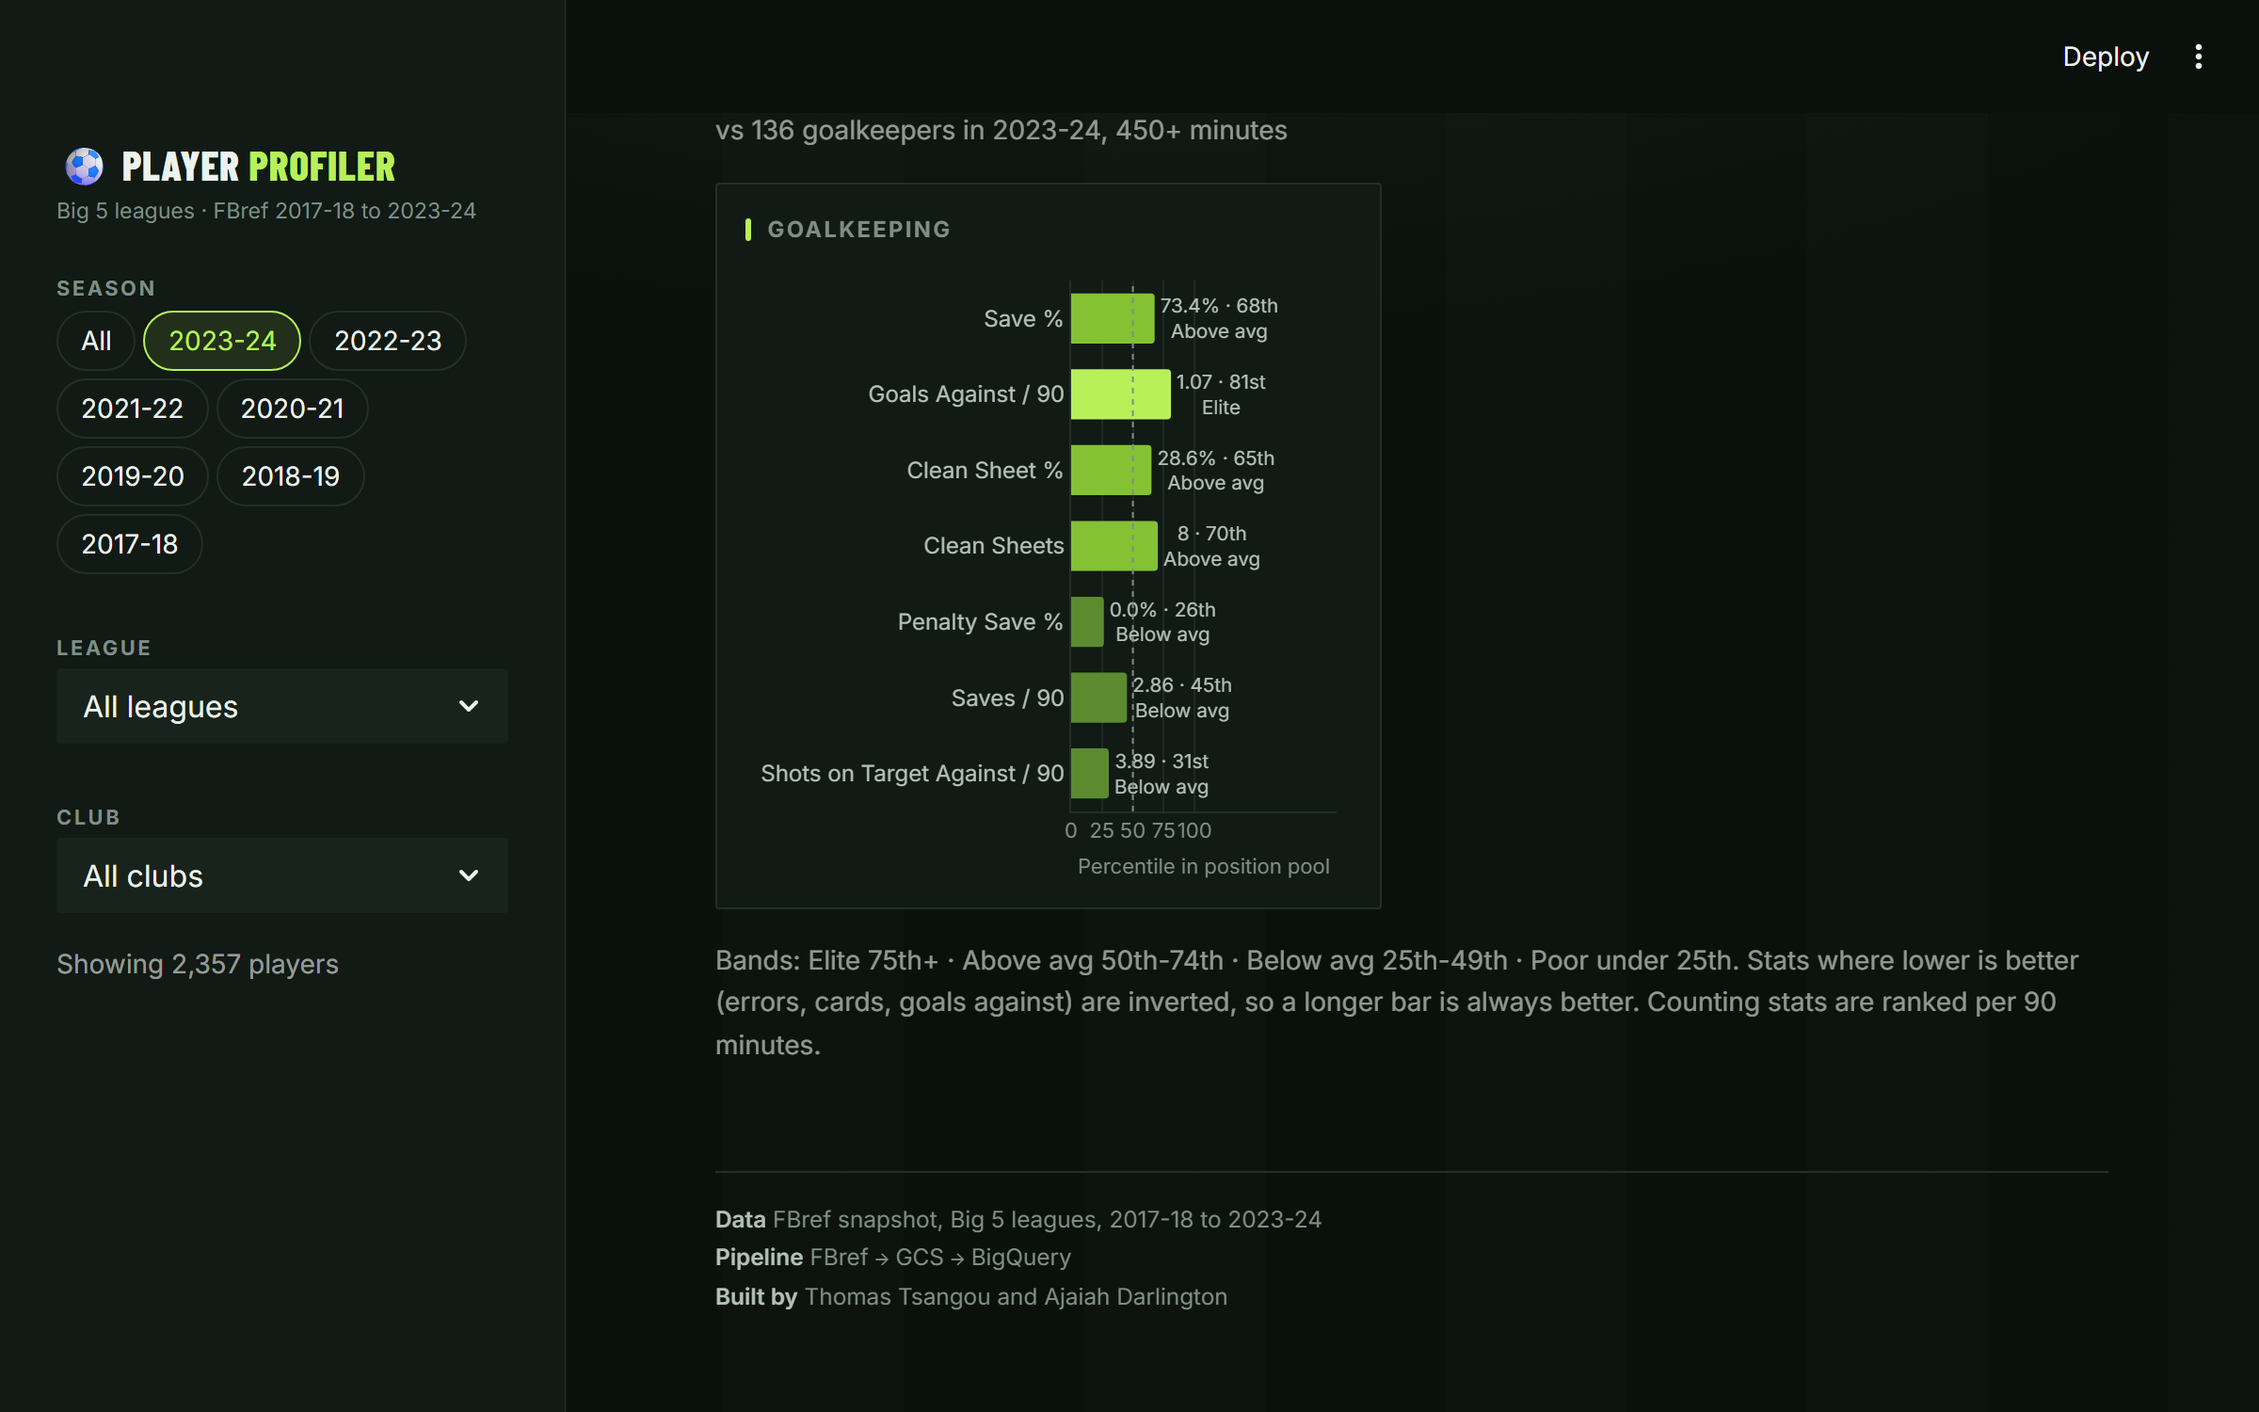
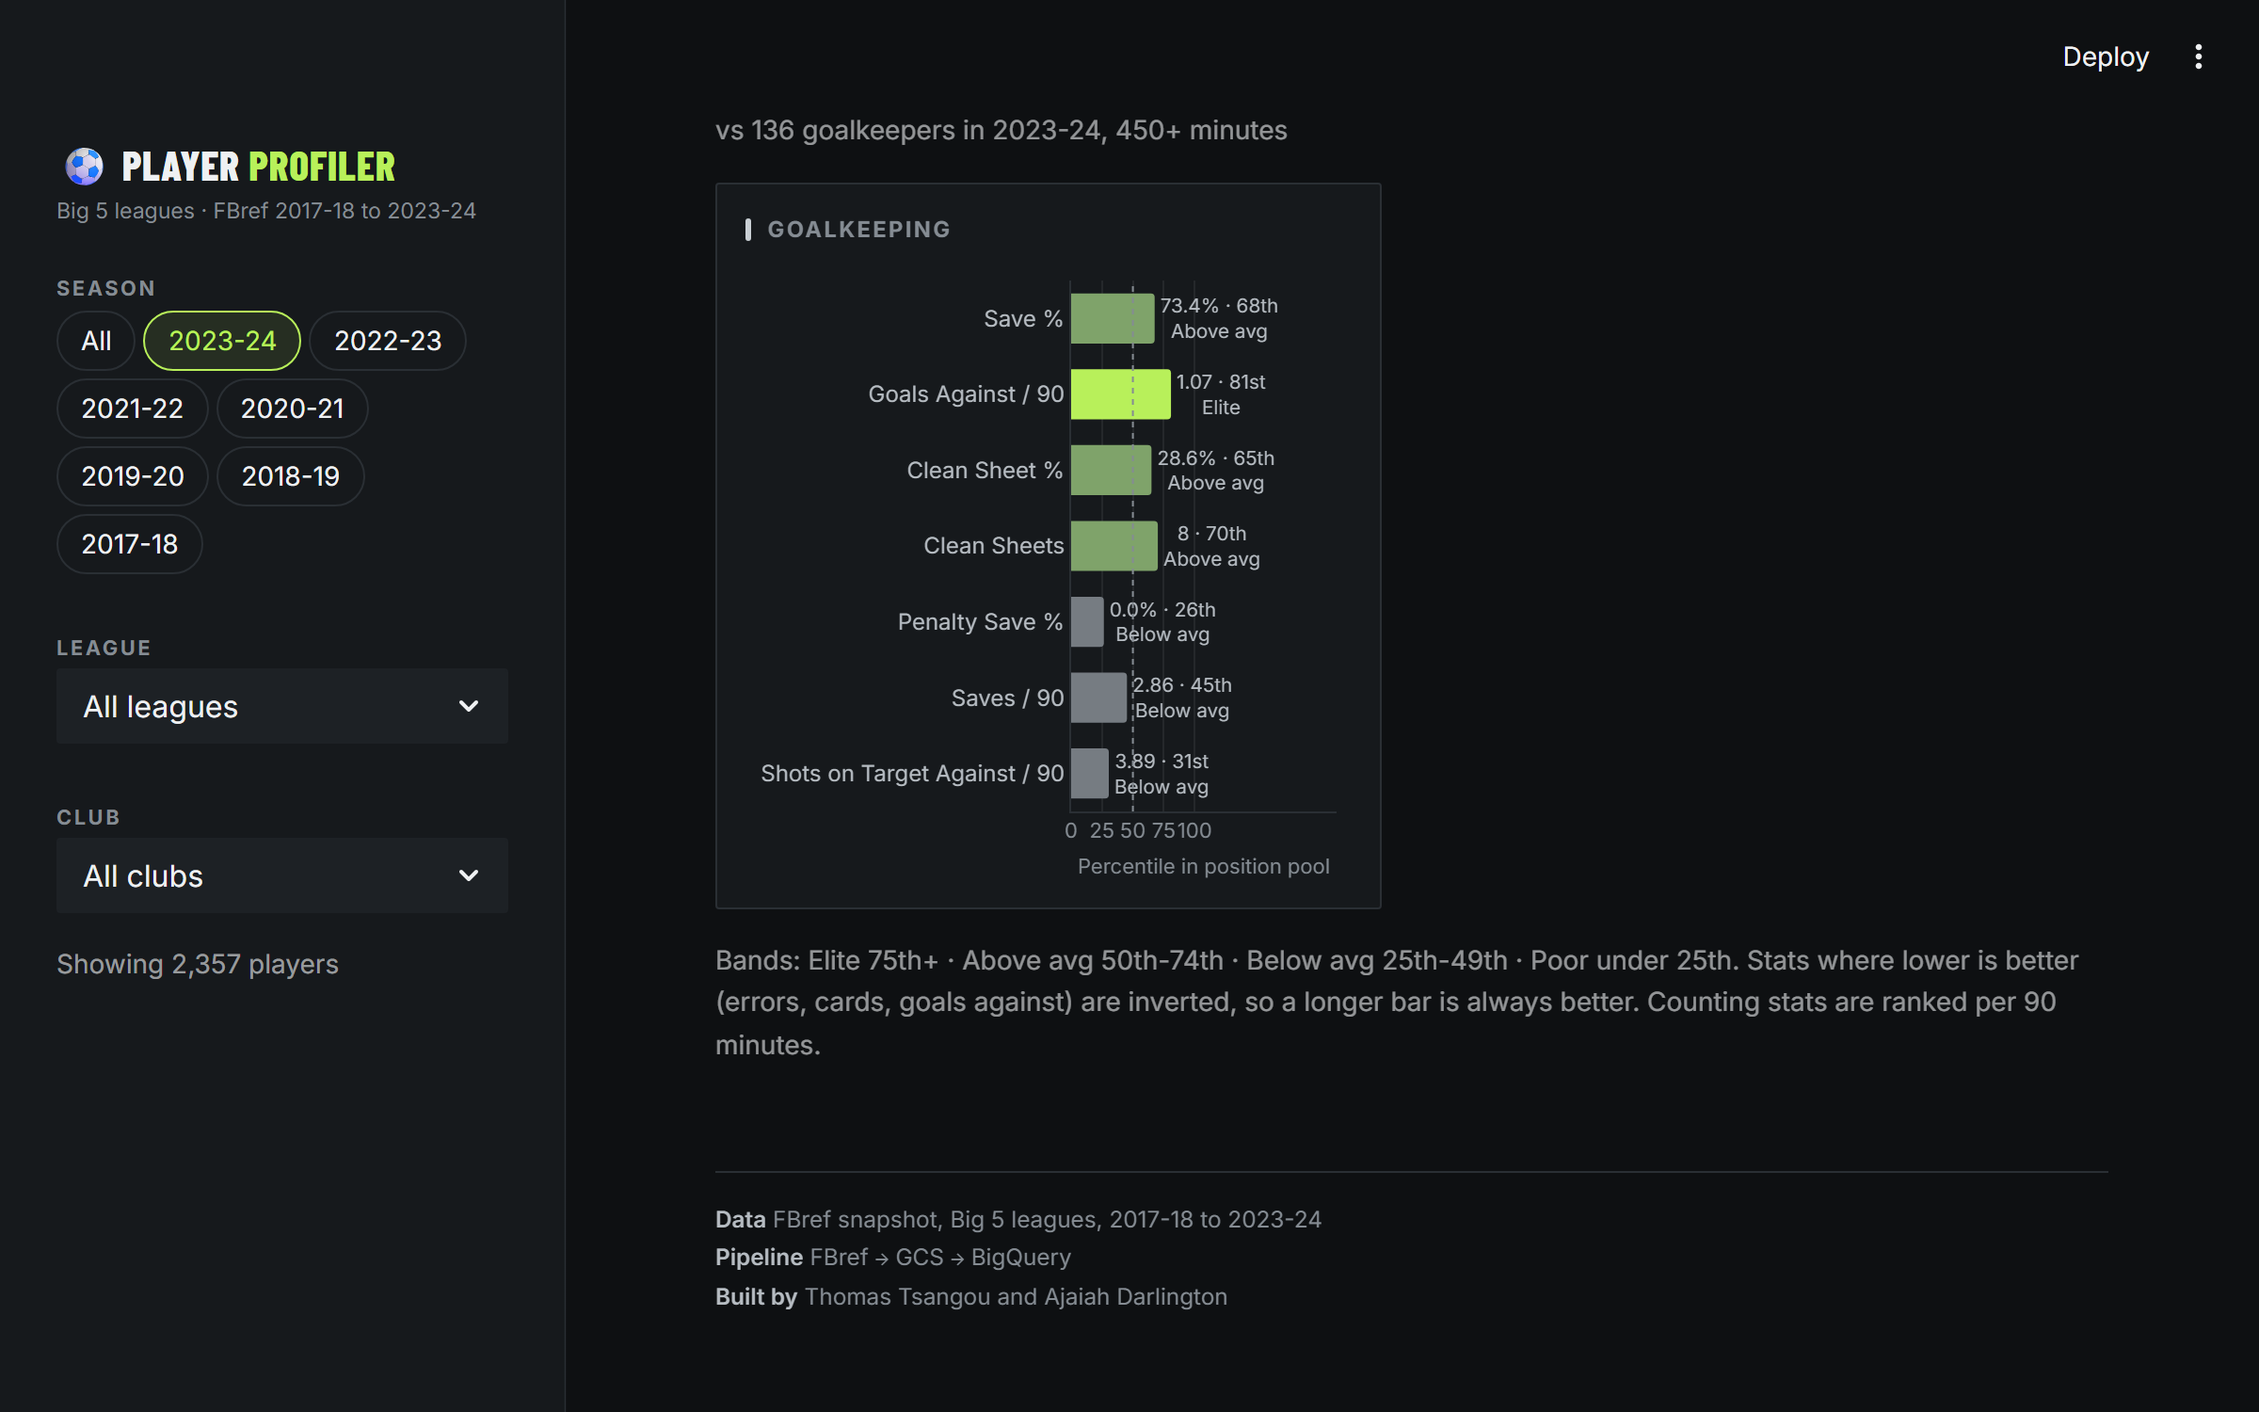
ui: charcoal palette with a single lime accent, neutral-until-good percentile bars
Page, surfaces and ink move to neutral charcoal. Lime stays only on selected
states (primaryColor), the PROFILER title words and the Elite band; structure
(tile borders, section bars, hero rule, avatar ring, position chip, similarity
bars) uses the new chalk RULE token. Percentile bands run grey, grey, sage, lime.
Tests pin the new tokens and that ACCENT is not used on structural chrome.

Changed region(s): [[0.4688, 0.3067, 0.5312, 0.5827], [0.4688, 0.184, 0.5312, 0.2453]]

diff --git a/src/ui/theme.py b/src/ui/theme.py
@@ -1,10 +1,11 @@
-"""Floodlight design tokens, global CSS and small HTML helpers.
+"""Charcoal design tokens, global CSS and small HTML helpers.
 
 Ported from the Basketball Intelligence Platform (dashboard/lib/theme.py:
 kpi(), card(), chip(), tip(); lib/media.py: avatar initials) and restyled
-as a night match: deep pitch greens, chalk-white type, floodlight-lime
-accent. .streamlit/config.toml mirrors the tokens for native widgets
-(tests/test_theme.py keeps the two in sync).
+as a neutral charcoal page with chalk-grey structure and ONE interface
+accent, lime: selected states (Streamlit's primaryColor), the title word
+and the Elite percentile band. .streamlit/config.toml mirrors the tokens
+for native widgets (tests/test_theme.py keeps the two in sync).
 
 Every helper returns ONE line of HTML: st.markdown treats a blank or
 indented line inside raw HTML as Markdown and breaks the block. No CSS
@@ -20,18 +21,27 @@ from typing import Iterable, Sequence
 
 from src.ui import stats
 
-PAGE = "#0a110d"        # app background
-SURFACE = "#111a15"     # cards, chart surface, sidebar
-SURFACE_2 = "#17231c"   # hover, table header, inputs
-BORDER = "#213028"      # card and table borders
-INK = "#ecf2ed"         # primary text
-INK_2 = "#b3c1b8"       # secondary text
-MUTED = "#7f8f86"       # labels, captions
-GRID = "rgba(236,242,237,0.07)"  # chart gridlines
-ACCENT = "#b8f05a"      # brand accent: primaryColor, title bars, active states, hero highlight
-PLAYER = "#5aa82c"      # selected player series in charts
-COMPARE = "#7c7cf2"     # comparison player series in charts
-PCT_RAMP = ("#3d5a26", "#5c8a2e", "#84c234", "#b8f05a")  # bands <25, 25-49, 50-74, 75+
+PAGE = "#0e1012"        # app background, neutral charcoal
+SURFACE = "#16191c"     # cards, chart surface, sidebar
+SURFACE_2 = "#1d2125"   # hover, table header, inputs, chip fill
+BORDER = "#2a2f34"      # card and table borders
+INK = "#eef0f2"         # primary text
+INK_2 = "#b6bcc2"       # secondary text
+MUTED = "#858c93"       # labels, captions
+GRID = "rgba(238,240,242,0.07)"  # chart gridlines
+# The ONE interface accent. Allowed only on: primaryColor (selected pills,
+# tabs, slider, focus), the hero/brand highlight word, the Elite band. Never
+# on structural chrome - that is RULE (tests/test_theme.py enforces it).
+ACCENT = "#b8f05a"
+RULE = "#c9cfd4"        # chalk structural accent: tile borders, section bars, hero rule, avatar ring, position chip
+PLAYER = "#5aa82c"      # selected player series in charts (dumbbell A; passes the validator on SURFACE)
+COMPARE = "#7c7cf2"     # comparison player series in charts (dumbbell B)
+# Percentile bands <25 Poor, 25-49 Below avg, 50-74 Above avg, 75+ Elite.
+# "Neutral until good": grey, grey, sage, lime. The dataviz validator
+# (--ordinal, on SURFACE) passes lightness monotone, adjacent delta-L and
+# light-end contrast (2.13:1) but FAILS "single hue" (spread 121 degrees).
+# That failure is by design - this is not a one-hue sequential ramp.
+PCT_RAMP = ("#4a4f54", "#767c82", "#7fa36a", "#b8f05a")
 RADIUS = "2px"
 
 FONT_BODY = '"Inter", system-ui, -apple-system, "Segoe UI", sans-serif'
@@ -43,20 +53,14 @@ CSS = f"""
 <style>
 @import url('{FONTS_URL}');
 
-/* ---- page: night pitch with very faint mowed stripes ---- */
-.stApp {{
-  background:
-    repeating-linear-gradient(90deg, rgba(236,242,237,0.012) 0px, rgba(236,242,237,0.012) 96px,
-                              transparent 96px, transparent 192px),
-    radial-gradient(1200px 520px at 50% -18%, rgba(184,240,90,0.06), transparent 62%),
-    {PAGE};
-}}
+/* ---- page: plain neutral charcoal ---- */
+.stApp {{ background: {PAGE}; }}
 
 /* ---- hero ---- */
 .fl-hero {{
   position: relative; overflow: hidden;
-  background: linear-gradient(120deg, rgba(184,240,90,0.10) 0%, rgba(17,26,21,0) 55%), {SURFACE};
-  border: 1px solid {BORDER}; border-left: 3px solid {ACCENT}; border-radius: {RADIUS};
+  background: linear-gradient(120deg, rgba(238,240,242,0.05) 0%, rgba(22,25,28,0) 55%), {SURFACE};
+  border: 1px solid {BORDER}; border-left: 3px solid {RULE}; border-radius: {RADIUS};
   padding: 1.3rem 1.6rem; margin-bottom: 1rem;
 }}
 .fl-hero-title {{ font-family: {FONT_DISPLAY}; font-weight: 800; font-size: 2.6rem; line-height: 1;
@@ -72,13 +76,13 @@ CSS = f"""
 .fl-card-title {{ display: flex; align-items: center; margin: 0 0 .6rem 0; font-size: .74rem;
                   font-weight: 700; text-transform: uppercase; letter-spacing: .1em; color: {MUTED}; }}
 .fl-card-title::before {{ content: ""; display: inline-block; width: 3px; height: .95em;
-                          background: {ACCENT}; border-radius: {RADIUS}; margin-right: .55rem; }}
+                          background: {RULE}; border-radius: {RADIUS}; margin-right: .55rem; }}
 .stApp [class*="st-key-card"] {{ background: {SURFACE}; border-color: {BORDER}; border-radius: {RADIUS}; }}
 
 /* ---- identity card + KPI tiles ---- */
 .fl-identity {{ display: flex; align-items: center; gap: 1rem; }}
 .fl-avatar {{ display: inline-flex; align-items: center; justify-content: center; flex: none;
-              border-radius: 50%; border: 2px solid {ACCENT}; background: rgba(184,240,90,0.10);
+              border-radius: 50%; border: 2px solid {RULE}; background: rgba(201,207,212,0.10);
               color: {INK}; font-family: {FONT_DISPLAY}; font-weight: 700; }}
 .fl-name {{ font-family: {FONT_DISPLAY}; font-weight: 700; font-size: 2.1rem; line-height: 1.05;
             letter-spacing: .01em; color: {INK}; }}
@@ -86,10 +90,11 @@ CSS = f"""
 .fl-chip {{ display: inline-block; padding: 2px 10px; border-radius: {RADIUS}; background: {SURFACE_2};
             border: 1px solid {BORDER}; color: {INK_2}; font-size: .75rem; font-weight: 600;
             letter-spacing: .02em; }}
-.fl-chip-accent {{ color: {ACCENT}; border-color: rgba(184,240,90,0.35); background: rgba(184,240,90,0.08); }}
+/* the position chip (chip(..., accent=True)): chalk, not lime */
+.fl-chip-accent {{ color: {RULE}; border-color: {RULE}; background: rgba(201,207,212,0.08); }}
 .fl-kpi-row {{ display: grid; grid-template-columns: repeat(auto-fit, minmax(92px, 1fr)); gap: .6rem;
                margin-bottom: 1rem; }}
-.fl-kpi {{ background: {SURFACE}; border: 1px solid {BORDER}; border-left: 3px solid {ACCENT};
+.fl-kpi {{ background: {SURFACE}; border: 1px solid {BORDER}; border-left: 3px solid {RULE};
            border-radius: {RADIUS}; padding: .65rem .6rem; }}
 .fl-kpi-label {{ display: flex; align-items: center; font-size: .7rem; text-transform: uppercase;
                  letter-spacing: .09em; color: {MUTED}; font-weight: 600; }}
@@ -116,7 +121,7 @@ CSS = f"""
 .fl-steps {{ display: grid; grid-template-columns: repeat(auto-fit, minmax(220px, 1fr)); gap: .75rem;
              margin: .5rem 0 1rem; }}
 .fl-steps .fl-card {{ margin-bottom: 0; }}
-.fl-step-num {{ font-family: {FONT_DISPLAY}; font-weight: 800; font-size: 2rem; line-height: 1; color: {ACCENT}; }}
+.fl-step-num {{ font-family: {FONT_DISPLAY}; font-weight: 800; font-size: 2rem; line-height: 1; color: {RULE}; }}
 .fl-step-title {{ font-weight: 700; color: {INK}; margin: .35rem 0 .2rem; }}
 .fl-step-body {{ font-size: .85rem; color: {INK_2}; }}
 .fl-empty {{ background: {SURFACE}; border: 1px dashed {BORDER}; border-radius: {RADIUS};

diff --git a/tests/test_theme.py b/tests/test_theme.py
@@ -9,19 +9,50 @@ from src.ui import theme
 ROOT = Path(__file__).resolve().parents[1]
 
 
-def test_tokens_are_floodlight_verbatim():
-    assert (theme.PAGE, theme.SURFACE, theme.SURFACE_2, theme.BORDER) == \
-        ("#0a110d", "#111a15", "#17231c", "#213028")
-    assert (theme.INK, theme.INK_2, theme.MUTED) == ("#ecf2ed", "#b3c1b8", "#7f8f86")
-    assert theme.GRID == "rgba(236,242,237,0.07)"
-    assert (theme.ACCENT, theme.PLAYER, theme.COMPARE) == ("#b8f05a", "#5aa82c", "#7c7cf2")
-    assert theme.PCT_RAMP == ("#3d5a26", "#5c8a2e", "#84c234", "#b8f05a")
+def test_tokens_are_charcoal_verbatim():
+    assert (theme.PAGE, theme.SURFACE, theme.SURFACE_2, theme.BORDER) ==         ("#0e1012", "#16191c", "#1d2125", "#2a2f34")
+    assert (theme.INK, theme.INK_2, theme.MUTED) == ("#eef0f2", "#b6bcc2", "#858c93")
+    assert theme.GRID == "rgba(238,240,242,0.07)"
+    assert (theme.ACCENT, theme.RULE, theme.PLAYER, theme.COMPARE) ==         ("#b8f05a", "#c9cfd4", "#5aa82c", "#7c7cf2")
+    assert theme.PCT_RAMP == ("#4a4f54", "#767c82", "#7fa36a", "#b8f05a")
     assert theme.RADIUS == "2px"
+
+
+def _rule(selector: str) -> str:
+    """The body of the first CSS rule that starts with `selector`."""
+    start = theme.CSS.index(selector + " {")
+    return theme.CSS[start:theme.CSS.index("}", start)]
+
+
+def test_accent_is_not_used_on_structural_chrome():
+    # chalk (RULE) carries the structure: tile borders, section bars, hero rule,
+    # avatar ring, position chip, step numbers
+    assert theme.RULE in _rule(".fl-kpi") and theme.ACCENT not in _rule(".fl-kpi")
+    assert theme.RULE in _rule(".fl-card-title::before") and theme.ACCENT not in _rule(".fl-card-title::before")
+    assert theme.RULE in _rule(".fl-hero") and theme.ACCENT not in _rule(".fl-hero")
+    assert theme.RULE in _rule(".fl-avatar") and theme.ACCENT not in _rule(".fl-avatar")
+    assert theme.RULE in _rule(".fl-chip-accent") and theme.ACCENT not in _rule(".fl-chip-accent")
+    assert theme.ACCENT not in _rule(".fl-step-num")
+
+
+def test_accent_appears_only_on_the_brand_words():
+    # lime in the injected CSS: the hero word and the sidebar brand word, nothing else
+    lines = [ln for ln in theme.CSS.splitlines() if theme.ACCENT in ln]
+    assert len(lines) == 2
+    assert any(ln.startswith(".fl-hero-title em") for ln in lines)
+    assert any(ln.startswith(".fl-brand em") for ln in lines)
+
+
+def test_no_green_tint_left_in_the_css():
+    assert "184,240,90" not in theme.CSS  # the old lime rgba tints
+    assert "236,242,237" not in theme.CSS and "17,26,21" not in theme.CSS
+    assert "repeating-linear-gradient" not in theme.CSS and "radial-gradient" not in theme.CSS
 
 
 def test_streamlit_config_mirrors_the_tokens():
     cfg = tomllib.loads((ROOT / ".streamlit" / "config.toml").read_text(encoding="utf-8"))["theme"]
     assert cfg["primaryColor"] == theme.ACCENT
+    assert cfg["linkColor"] == theme.RULE
     assert cfg["backgroundColor"] == theme.PAGE
     assert cfg["secondaryBackgroundColor"] == theme.SURFACE_2
     assert cfg["textColor"] == theme.INK

diff --git a/tests/test_config.py b/tests/test_config.py
@@ -12,20 +12,20 @@ def _config() -> dict:
     return tomllib.loads((ROOT / ".streamlit" / "config.toml").read_text(encoding="utf-8"))
 
 
-def test_theme_mirrors_floodlight_tokens():
+def test_theme_mirrors_charcoal_tokens():
     cfg = _config()
     theme = cfg["theme"]
     assert theme["base"] == "dark"
     assert theme["primaryColor"] == "#b8f05a"
-    assert theme["backgroundColor"] == "#0a110d"
-    assert theme["secondaryBackgroundColor"] == "#17231c"
-    assert theme["textColor"] == "#ecf2ed"
-    assert theme["borderColor"] == "#213028"
+    assert theme["backgroundColor"] == "#0e1012"
+    assert theme["secondaryBackgroundColor"] == "#1d2125"
+    assert theme["textColor"] == "#eef0f2"
+    assert theme["borderColor"] == "#2a2f34"
     assert theme["baseRadius"] == "2px"
     assert theme["buttonRadius"] == "2px"
-    assert theme["dataframeHeaderBackgroundColor"] == "#17231c"
-    assert theme["dataframeBorderColor"] == "#213028"
-    assert theme["sidebar"]["backgroundColor"] == "#111a15"
+    assert theme["dataframeHeaderBackgroundColor"] == "#1d2125"
+    assert theme["dataframeBorderColor"] == "#2a2f34"
+    assert theme["sidebar"]["backgroundColor"] == "#16191c"
 
 
 def test_theme_fonts_are_inter_and_barlow_condensed():

diff --git a/src/ui/viz.py b/src/ui/viz.py
@@ -1,4 +1,4 @@
-"""Plotly figures in the Floodlight style.
+"""Plotly figures in the charcoal style.
 
 Ported from the basketball dashboard (lib/viz.py: _layout, PLOTLY_CONFIG,
 percentile_bars, compare_dumbbell, _empty). Chart rules: transparent
@@ -19,7 +19,7 @@ from src.ui import theme as T
 PLOTLY_CONFIG = {"displayModeBar": False}
 ROW_PX = 38            # percentile bar row height
 DUMBBELL_ROW_PX = 34
-LINK = "rgba(236,242,237,0.22)"  # dumbbell connector
+LINK = "rgba(238,240,242,0.22)"  # dumbbell connector
 LABEL_SHIFT = 14       # px above/below a dot for its direct label
 LABEL_X_MIN, LABEL_X_MAX = 10, 90  # keep centred labels inside the plot
 

diff --git a/src/ui/views/similar.py b/src/ui/views/similar.py
@@ -20,7 +20,7 @@ COLUMN_CONFIG = {
     "Position": st.column_config.TextColumn("Position"),
     "Minutes": st.column_config.NumberColumn("Minutes", format="localized"),
     "Similarity": st.column_config.ProgressColumn(
-        "Similarity", min_value=0.0, max_value=1.0, format="%.2f", color=theme.ACCENT, width=120,
+        "Similarity", min_value=0.0, max_value=1.0, format="%.2f", color=theme.RULE, width=120,
         help="1.00 = an identical statistical profile"),
 }
 # Position is the same for every row (the pool is one position), so leave it

diff --git a/tests/test_viz.py b/tests/test_viz.py
@@ -146,3 +146,10 @@ def test_dumbbell_tied_percentiles_stay_both_visible():
     assert b.marker.color == theme.COMPARE and a.marker.line.color == theme.SURFACE
     assert (a.legendrank, b.legendrank) == (1, 2)
     assert fig.layout.hovermode == "y unified"
+
+
+def test_percentile_bands_are_grey_sage_then_lime():
+    # option A: neutral until good; lime is reserved for the Elite band
+    assert theme.PCT_RAMP[3] == theme.ACCENT
+    assert theme.ACCENT not in theme.PCT_RAMP[:3]
+    assert viz.LINK == "rgba(238,240,242,0.22)"

diff --git a/scripts/screenshot.py b/scripts/screenshot.py
@@ -23,7 +23,7 @@ ROOT = Path(__file__).resolve().parents[1]
 LOAD_MS = 180_000    # the first BigQuery load can be slow
 SETTLE_MS = 2_500    # let Plotly and the data grid finish drawing
 SEARCH_PLACEHOLDER = "Search a player, e.g. Salah"
-SURFACE_RGB = "rgb(17, 26, 21)"  # theme.SURFACE #111a15
+SURFACE_RGB = "rgb(22, 25, 28)"  # theme.SURFACE #16191c
 
 
 def settle(page: Page) -> None:

diff --git a/README.md b/README.md
@@ -170,7 +170,7 @@ scouting-report/
 ├── schema.sql               # Full BigQuery DDL (raw tables + feature tables + percentile views)
 ├── requirements.txt
 ├── requirements-dev.txt     # + pytest
-├── .streamlit/config.toml   # Floodlight theme for native widgets
+├── .streamlit/config.toml   # Charcoal theme (lime accent) for native widgets
 ├── src/
 │   ├── fbref_utils.py       # All cleaning, normalisation, and aggregation logic
 │   ├── similarity.py        # Similarity model and BigQuery query functions
